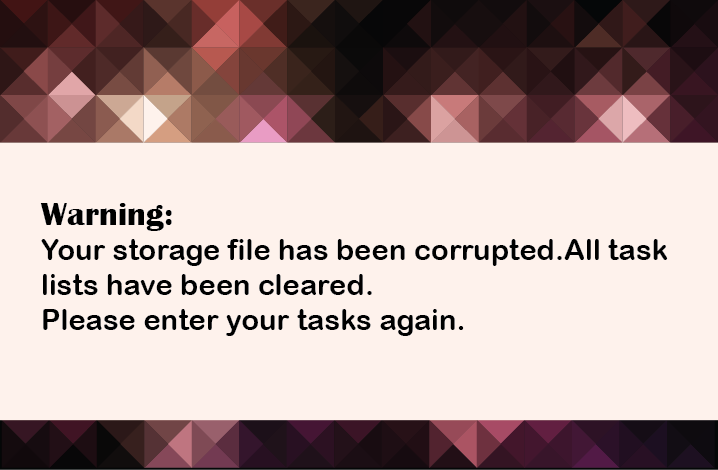
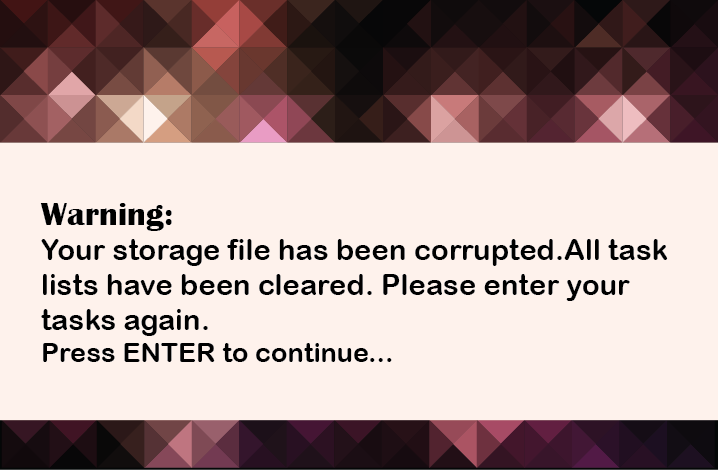
add message for file corruption

Changed region(s): [[0.0613, 0.6553, 0.6435, 0.7745], [0.5209, 0.566, 0.8886, 0.6553]]

diff --git a/src/ticker/ui/TickerUI.java b/src/ticker/ui/TickerUI.java
@@ -375,8 +375,8 @@ public class TickerUI extends Application {
 		this.nextView = next;
 	}
 	
-	public void isFileCorruputed() {
-		this.isFileCorrupted = true;
+	public void isFileCorruputed(boolean isCorrupted) {
+		this.isFileCorrupted = isCorrupted;
 	}
 
 	/*--------------------------------------------*/
@@ -439,7 +439,7 @@ public class TickerUI extends Application {
 			@Override
 			public void changed(ObservableValue observable, String oldValue,
 					String newValue) {
-				warning_isCorrupted.setVisible(false);
+
 				fadeOut.stop();
 				feedback.setOpacity(1);
 				feedback.setText(helpManager.getHelp(newValue));
@@ -492,6 +492,7 @@ public class TickerUI extends Application {
 
 		command.setOnAction(new EventHandler<ActionEvent>() {      // press Enter
 			public void handle(ActionEvent event) {
+				warning_isCorrupted.setVisible(false);
 				String cmd = command.getText();
 				command.clear();
 				feedback.setText(logic.getLogic(cmd));
